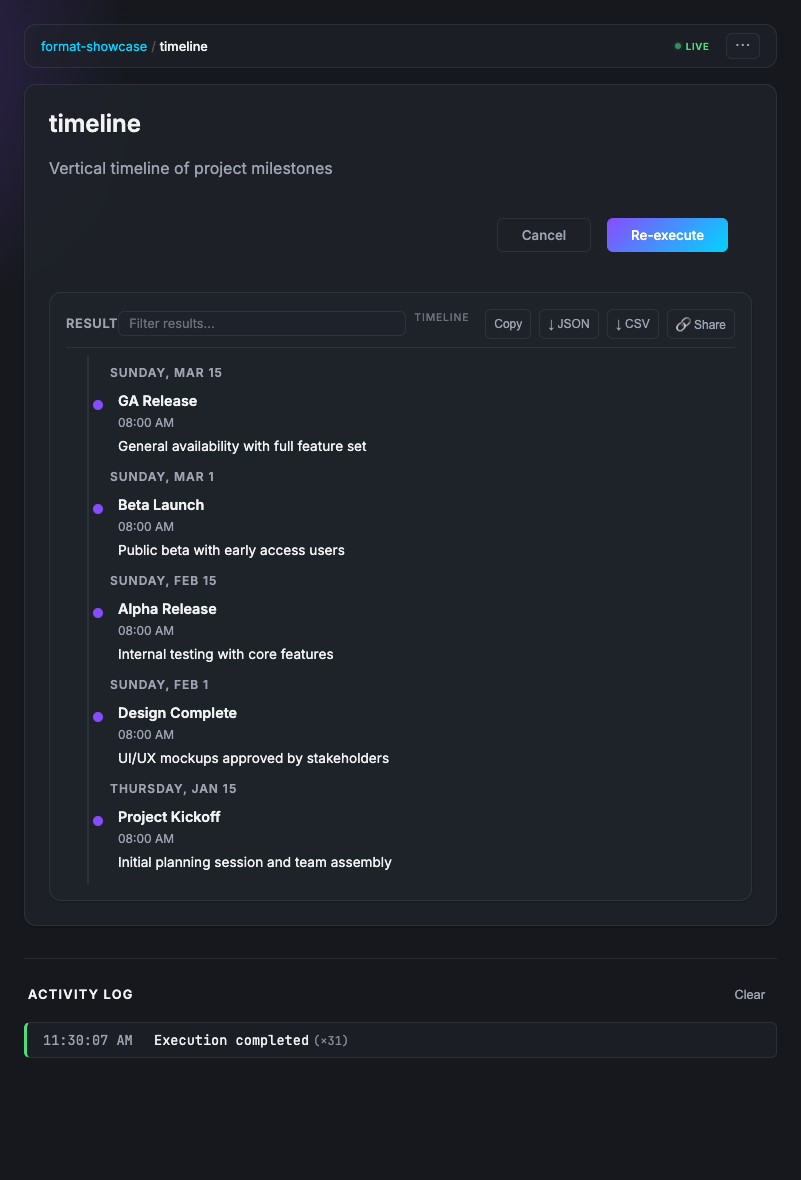
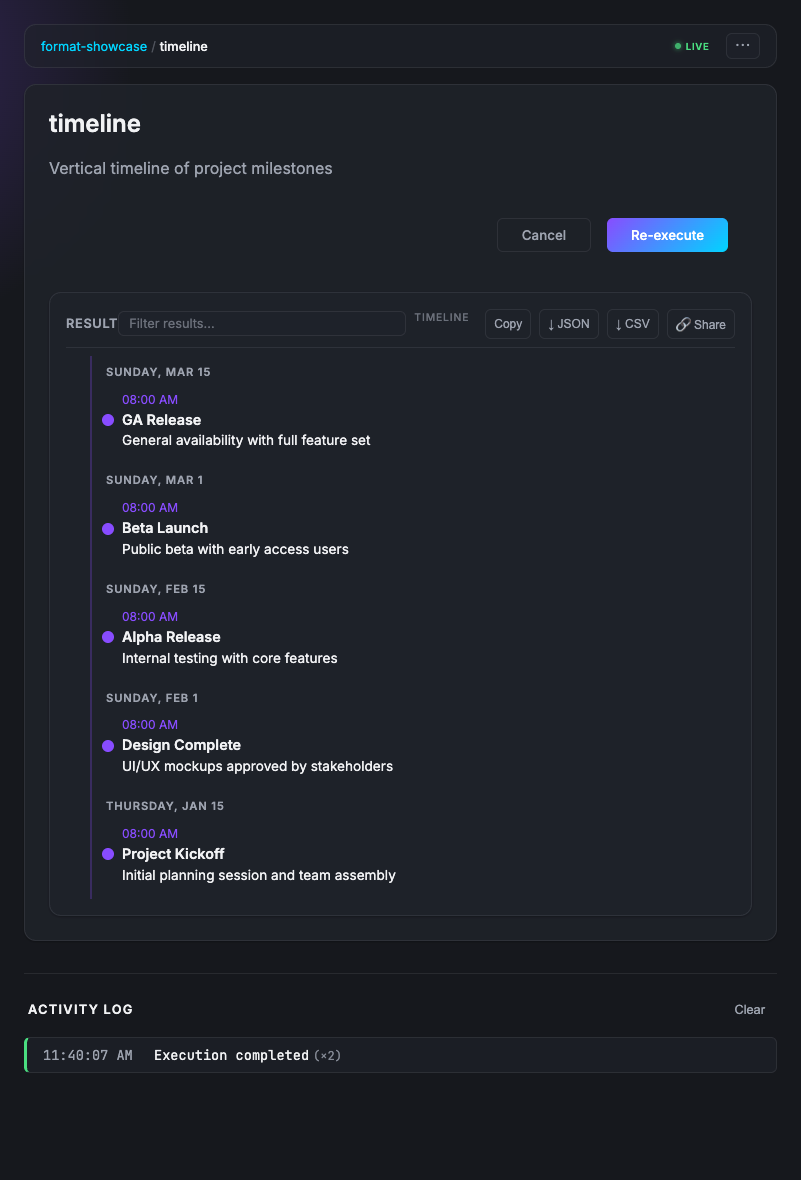
fix: timeline dot alignment and connecting line visibility
- Replace CSS ::before pseudo-element dot with explicit span element
  aligned via flexbox next to title text
- Use accent-primary color at 35% opacity for connecting line
- Time rendered above title in accent color
- Update timeline screenshot in docs

diff --git a/src/auto-ui/frontend/components/result-viewer.ts b/src/auto-ui/frontend/components/result-viewer.ts
@@ -1514,17 +1514,18 @@ export class ResultViewer extends LitElement {
       .timeline-container {
         position: relative;
         padding: var(--space-sm) var(--space-md);
-        padding-left: calc(var(--space-md) + 20px);
+        padding-left: calc(var(--space-md) + 24px);
       }
 
       .timeline-container::before {
         content: '';
         position: absolute;
-        left: calc(var(--space-md) + 7px);
-        top: var(--space-sm);
-        bottom: var(--space-sm);
+        left: calc(var(--space-md) + 8px);
+        top: 0;
+        bottom: 0;
         width: 2px;
-        background: var(--border-glass);
+        background: var(--accent-primary, #6366f1);
+        opacity: 0.35;
       }
 
       .timeline-group-header {
@@ -1547,17 +1548,23 @@ export class ResultViewer extends LitElement {
         animation: fadeInUp 0.3s ease-out both;
       }
 
-      .timeline-item::before {
-        content: '';
+      .timeline-dot {
         position: absolute;
-        left: -17px;
-        top: 10px;
-        width: 10px;
-        height: 10px;
+        left: -20px;
+        width: 12px;
+        height: 12px;
         border-radius: 50%;
         background: var(--accent-primary, #6366f1);
         border: 2px solid var(--bg-primary);
         z-index: 1;
+        flex-shrink: 0;
+      }
+
+      .timeline-title-row {
+        display: flex;
+        align-items: center;
+        gap: 8px;
+        position: relative;
       }
 
       .timeline-title {
@@ -4672,8 +4679,11 @@ export class ResultViewer extends LitElement {
                         ${this._formatTimelineTime(item[dateField])}
                       </div>`
                     : ''}
-                  <div class="timeline-title">
-                    ${titleField ? item[titleField] : JSON.stringify(item)}
+                  <div class="timeline-title-row">
+                    <span class="timeline-dot"></span>
+                    <div class="timeline-title">
+                      ${titleField ? item[titleField] : JSON.stringify(item)}
+                    </div>
                   </div>
                   ${descField && item[descField]
                     ? html`<div class="timeline-description">${item[descField]}</div>`
